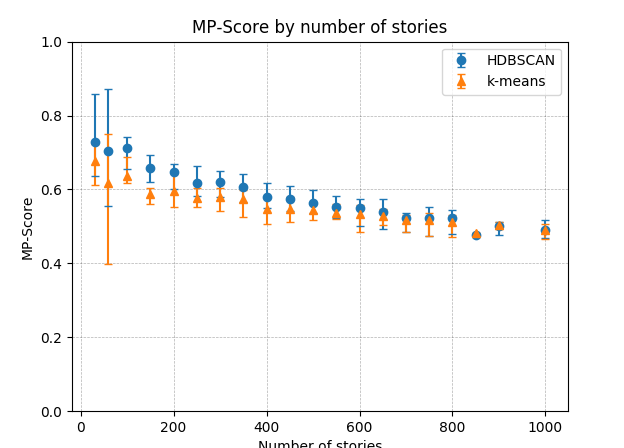
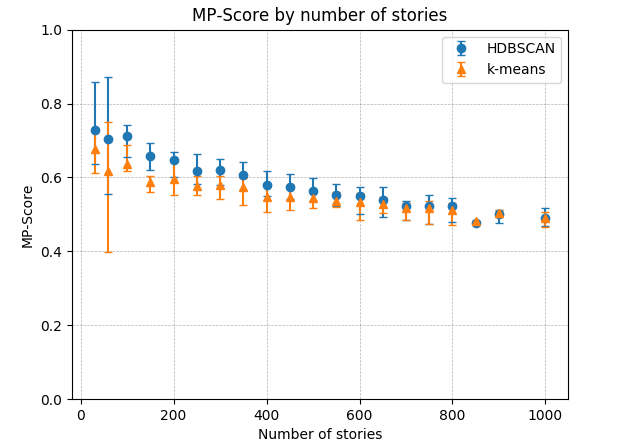
Fix cropped images

diff --git a/app/data_processing/plots_summary_resize.py b/app/data_processing/plots_summary_resize.py
@@ -3,7 +3,7 @@ from PIL import Image
 new_width = 625
 new_height = 448
 
-def resize_image(image_file, new_image_file):
+def resize_image(image_file, new_image_file, fix=False):
     im = Image.open(image_file)
     width, height = im.size  # Get dimensions
 
@@ -12,10 +12,14 @@ def resize_image(image_file, new_image_file):
     right = (width + new_width) / 2
     bottom = (height + new_height) / 2
 
+    if fix:
+        top += 12
+        bottom += 12
+
     im = im.crop((left, top, right, bottom))
     im.save(new_image_file)
 
 resize_image("../../doc/images/summary/event_detection_differences_de.png", "../../doc/images/summary/cropped_event_detection_differences_de.png")
 resize_image("../../doc/images/summary/event_detection_differences_en.png", "../../doc/images/summary/cropped_event_detection_differences_en.png")
-resize_image("../../doc/images/summary/hdbscan_kmeans_de.png", "../../doc/images/summary/cropped_hdbscan_kmeans_de.png")
-resize_image("../../doc/images/summary/hdbscan_kmeans_en.png", "../../doc/images/summary/cropped_hdbscan_kmeans_en.png")
+resize_image("../../doc/images/summary/hdbscan_kmeans_de.png", "../../doc/images/summary/cropped_hdbscan_kmeans_de.png", True)
+resize_image("../../doc/images/summary/hdbscan_kmeans_en.png", "../../doc/images/summary/cropped_hdbscan_kmeans_en.png", True)
